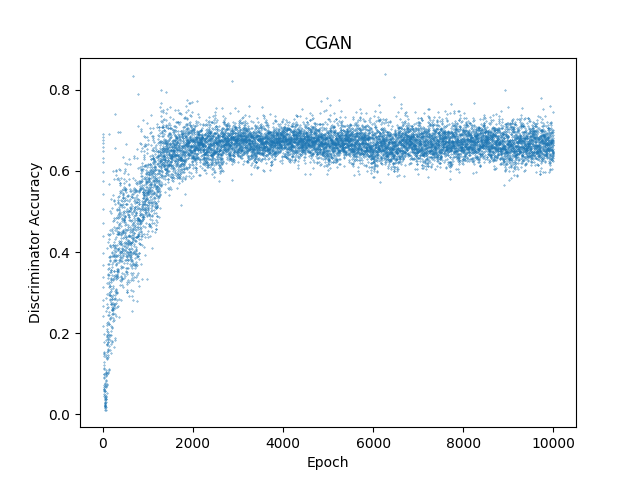
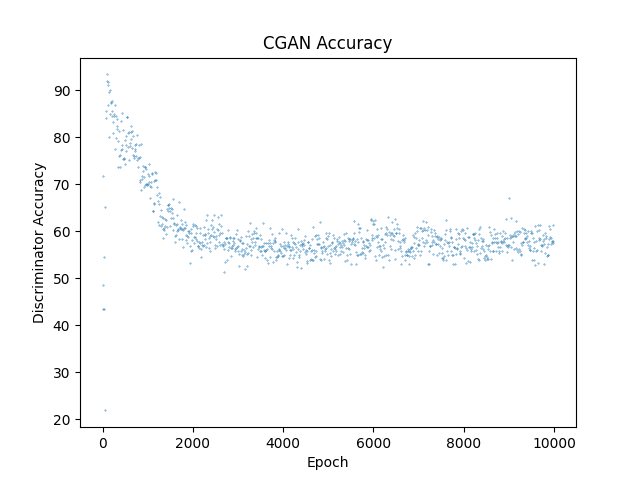
CGAN accuracy and loss

diff --git a/visulization.py b/visulization.py
@@ -1,22 +1,44 @@
 from gettext import lngettext
+from grpc import protos_and_services
 import numpy as np
 import matplotlib.pyplot as plt
 
 with open('cgan/output.log') as f:
     lines = f.readlines()
+    totalLoss = [0]*len(lines)
     accuracy = [0]*len(lines)
     for i in range(0, len(lines)):
         x = lines[i]
-        acc=""
+        loss=""
         for j in range(x.index('[')+9, x.index(',')):
-            acc = acc+x[j]
+            loss = loss+x[j]
+        totalLoss[i]=float(loss)
 
+        acc=""
+        for j in range(x.index(']')-6, x.index(']')-1):
+            acc = acc+x[j]
+        
         accuracy[i]=float(acc)
         
 
 x=range(0,10000)
-plt.title("CGAN")
+plt.title("CGAN Loss")
+plt.ylabel("Discriminator Loss")
+plt.xlabel("Epoch")
+plt.scatter(x, totalLoss,s=0.1)
+plt.savefig('cgan-D-Loss.png')
+
+x=range(2000,5000)
+means=1000*[0]
+x=[0]*1000
+
+for i in range(0,1000):
+    means[i]= np.mean(accuracy[i*10:i*10+9])
+    x[i]=i*10
+
+plt.clf()
+plt.title("CGAN Accuracy")
 plt.ylabel("Discriminator Accuracy")
 plt.xlabel("Epoch")
-plt.scatter(x, accuracy,s=0.1)
+plt.scatter(x, means,s=0.1)
 plt.savefig('cgan-accuracy.png')
